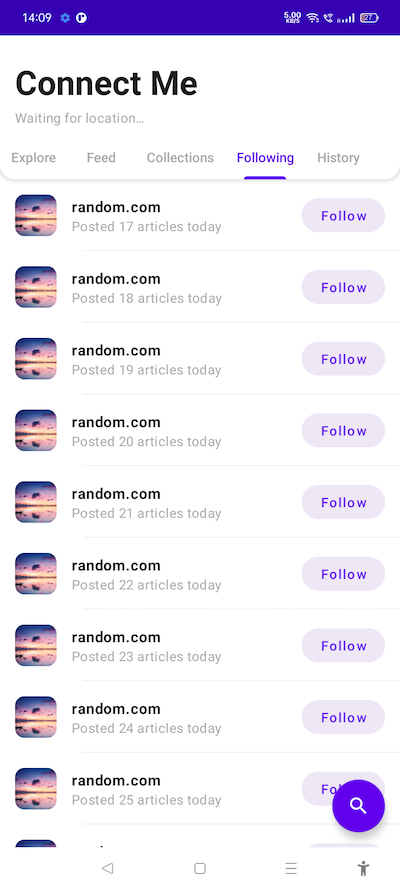
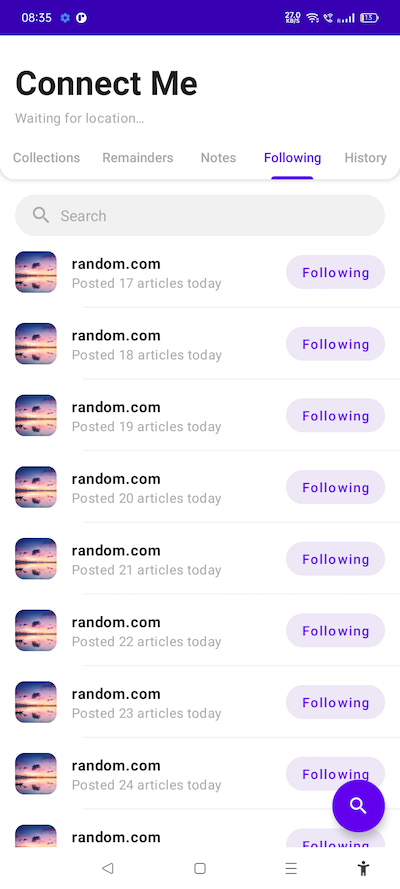
screensots

diff --git a/README.md b/README.md
@@ -5,4 +5,5 @@ A mobile browser with tabs. Genius?
 ## Screenshots
 ![alt text](https://github.com/Singularity-Coder/Connect-Me/blob/main/assets/ss1.png)
 ![alt text](https://github.com/Singularity-Coder/Connect-Me/blob/main/assets/ss2.png)
+![alt text](https://github.com/Singularity-Coder/Connect-Me/blob/main/assets/ss3.png)
 
